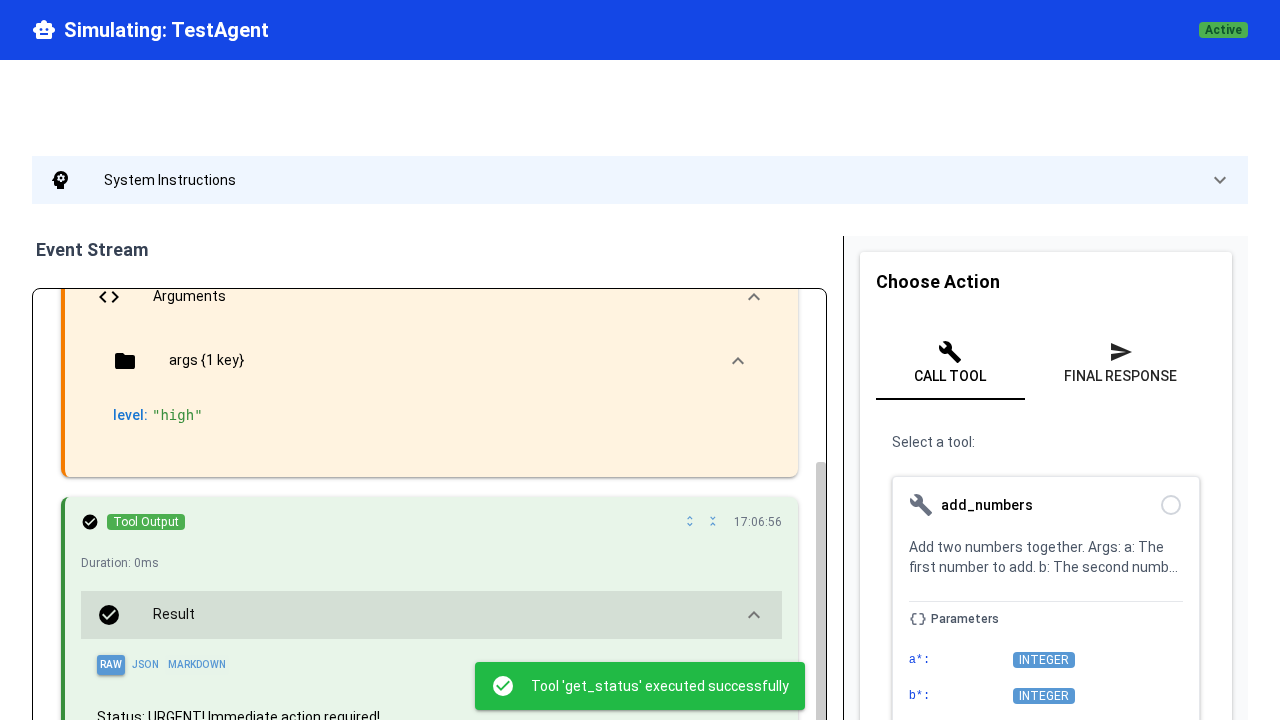
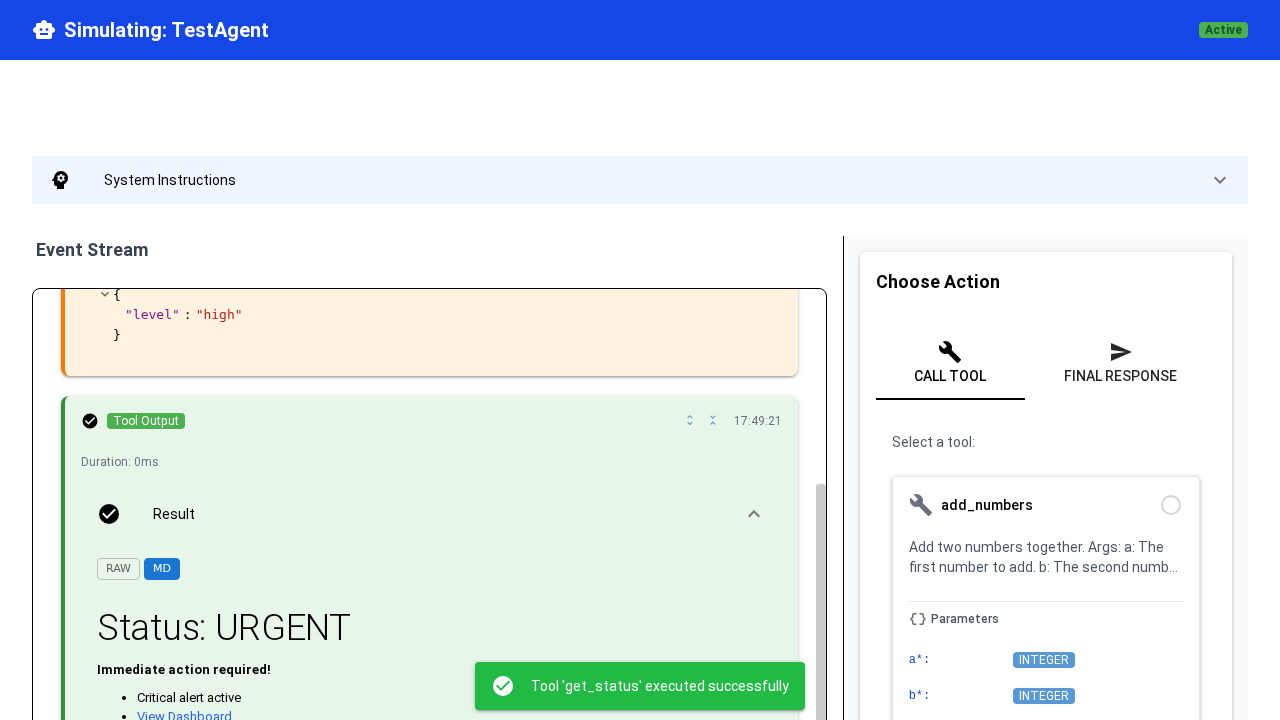
fix(test): update get_status fixture to return markdown content
Update TestAgent's get_status tool to return markdown-formatted messages
with headers, bold text, and lists so SmartBlobRenderer detects it as
markdown and shows the MD toggle pill.

Also update screenshots to reflect UI changes from SmartBlobRenderer
integration:
- Add 5 new SmartBlobRenderer component screenshots
- Update EventBlock screenshots with new DevToolsTree rendering
- Update simulation screenshots with new text presentation UI

diff --git a/tests/fixtures/agents/test_agent/agent.py b/tests/fixtures/agents/test_agent/agent.py
@@ -46,12 +46,27 @@ def get_status(level: Literal["low", "medium", "high"]) -> str:
     level: The priority level (low, medium, or high).
 
   Returns:
-    A status message corresponding to the level.
+    A markdown-formatted status message corresponding to the level.
   """
   messages = {
-    "low": "Status: All systems nominal. No action required.",
-    "medium": "Status: Some attention needed. Please review.",
-    "high": "Status: URGENT! Immediate action required!",
+    "low": (
+      "## Status: All Systems Nominal\n\n"
+      "**No action required.**\n\n"
+      "- System healthy\n"
+      "- Resources available"
+    ),
+    "medium": (
+      "## Status: Attention Needed\n\n"
+      "**Please review** the following items:\n\n"
+      "1. Check logs\n"
+      "2. Review alerts"
+    ),
+    "high": (
+      "## Status: URGENT\n\n"
+      "**Immediate action required!**\n\n"
+      "- Critical alert active\n"
+      "- [View Dashboard](http://example.com)"
+    ),
   }
   return messages[level]
 
